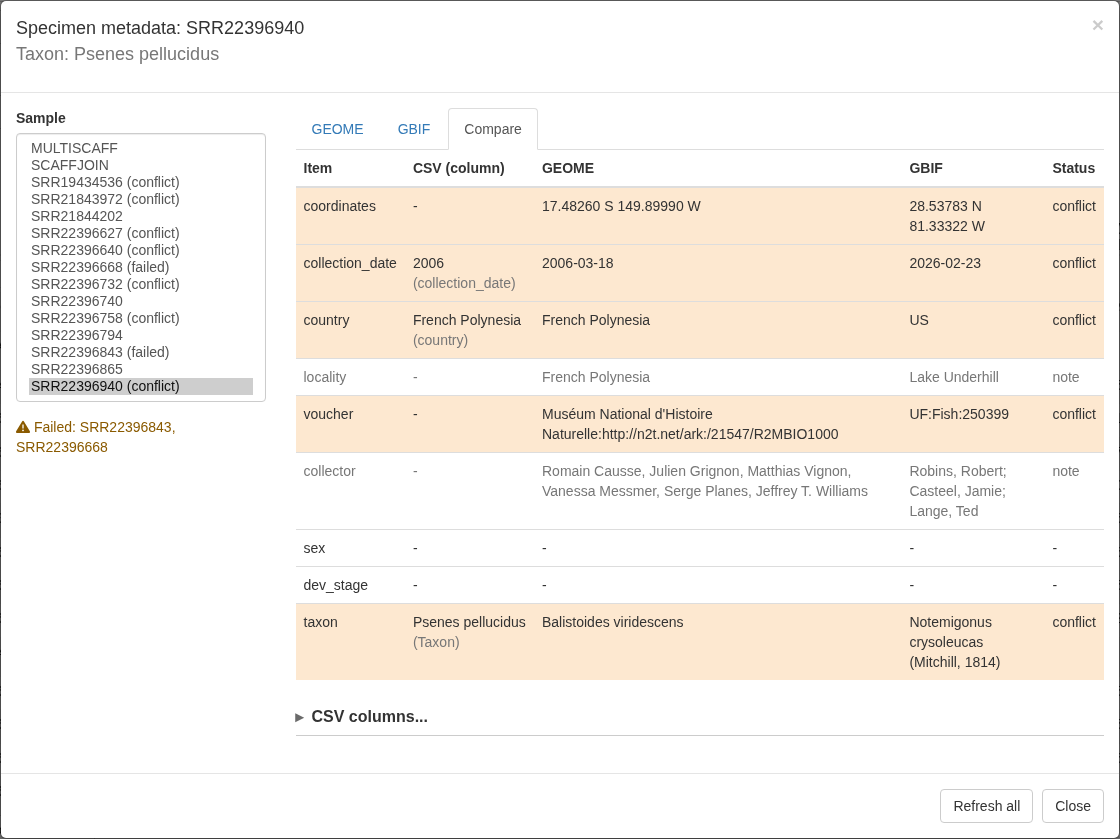
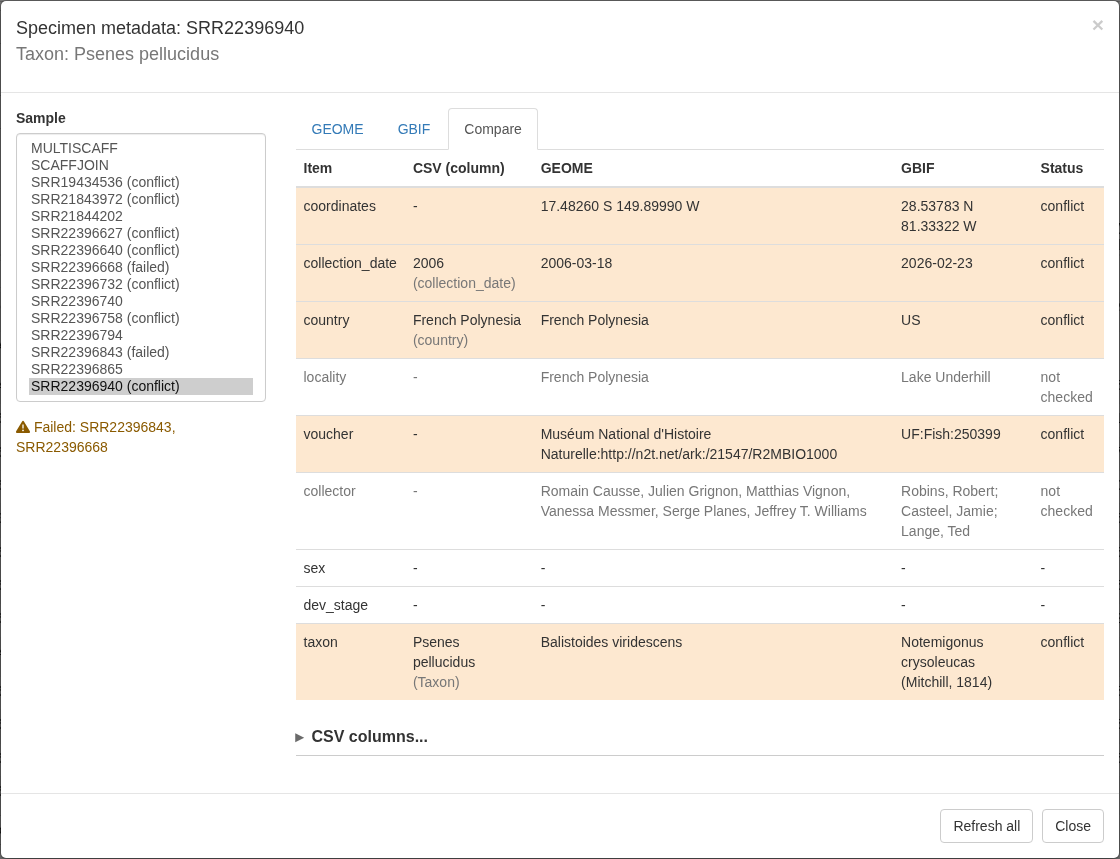
Rename specimen status note to not checked

diff --git a/tools/specimen_metadata_gbif_spec.md b/tools/specimen_metadata_gbif_spec.md
@@ -137,7 +137,7 @@ Normalization and agreement:
 | sex, dev_stage | lowercased equal | note |
 
 Only sources that both have a value are compared; blanks never conflict. Status per
-concept per sample: `agree`, `note`, `conflict`, or `single` (one source only).
+concept per sample: `agree`, `note`, `conflict`, or `single` (one source only). Displayed status for non-judged differences was renamed from `note` to `not checked` (2026-09-25, user decision).
 
 Engine: `specimen_conflicts(con, ids = NULL)` returns ID, concept, csv_column,
 csv_value, geome_value, gbif_value, status. It is the only comparison code; the icon
